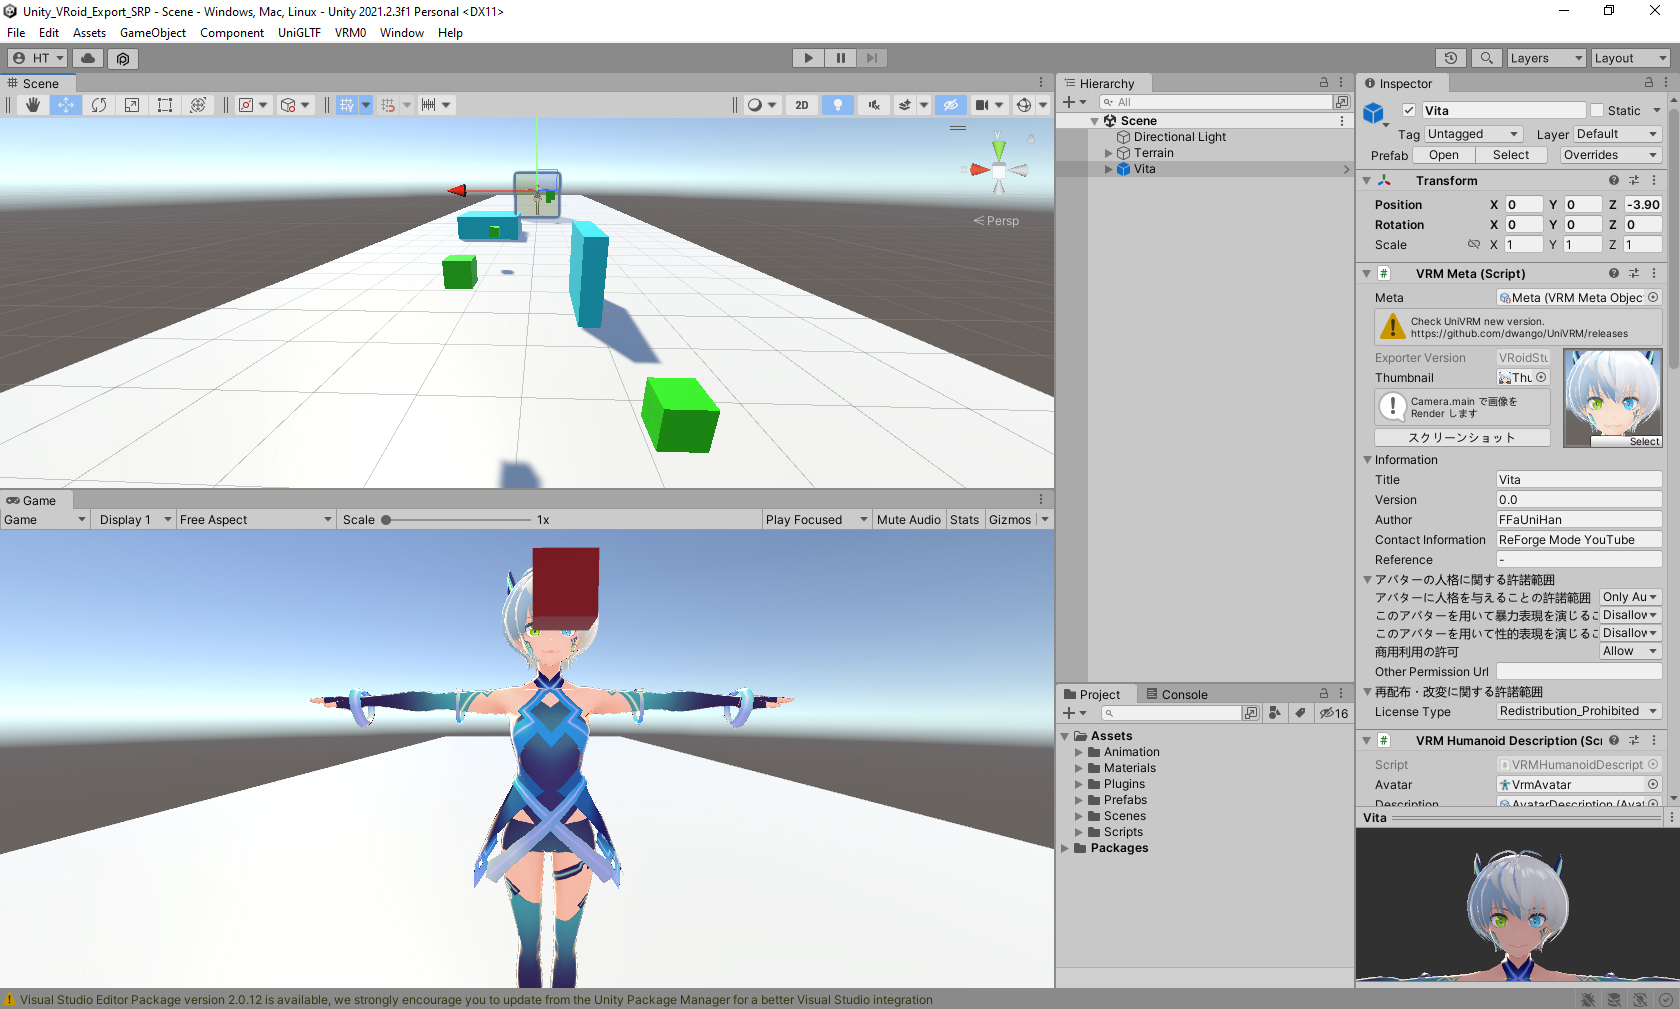
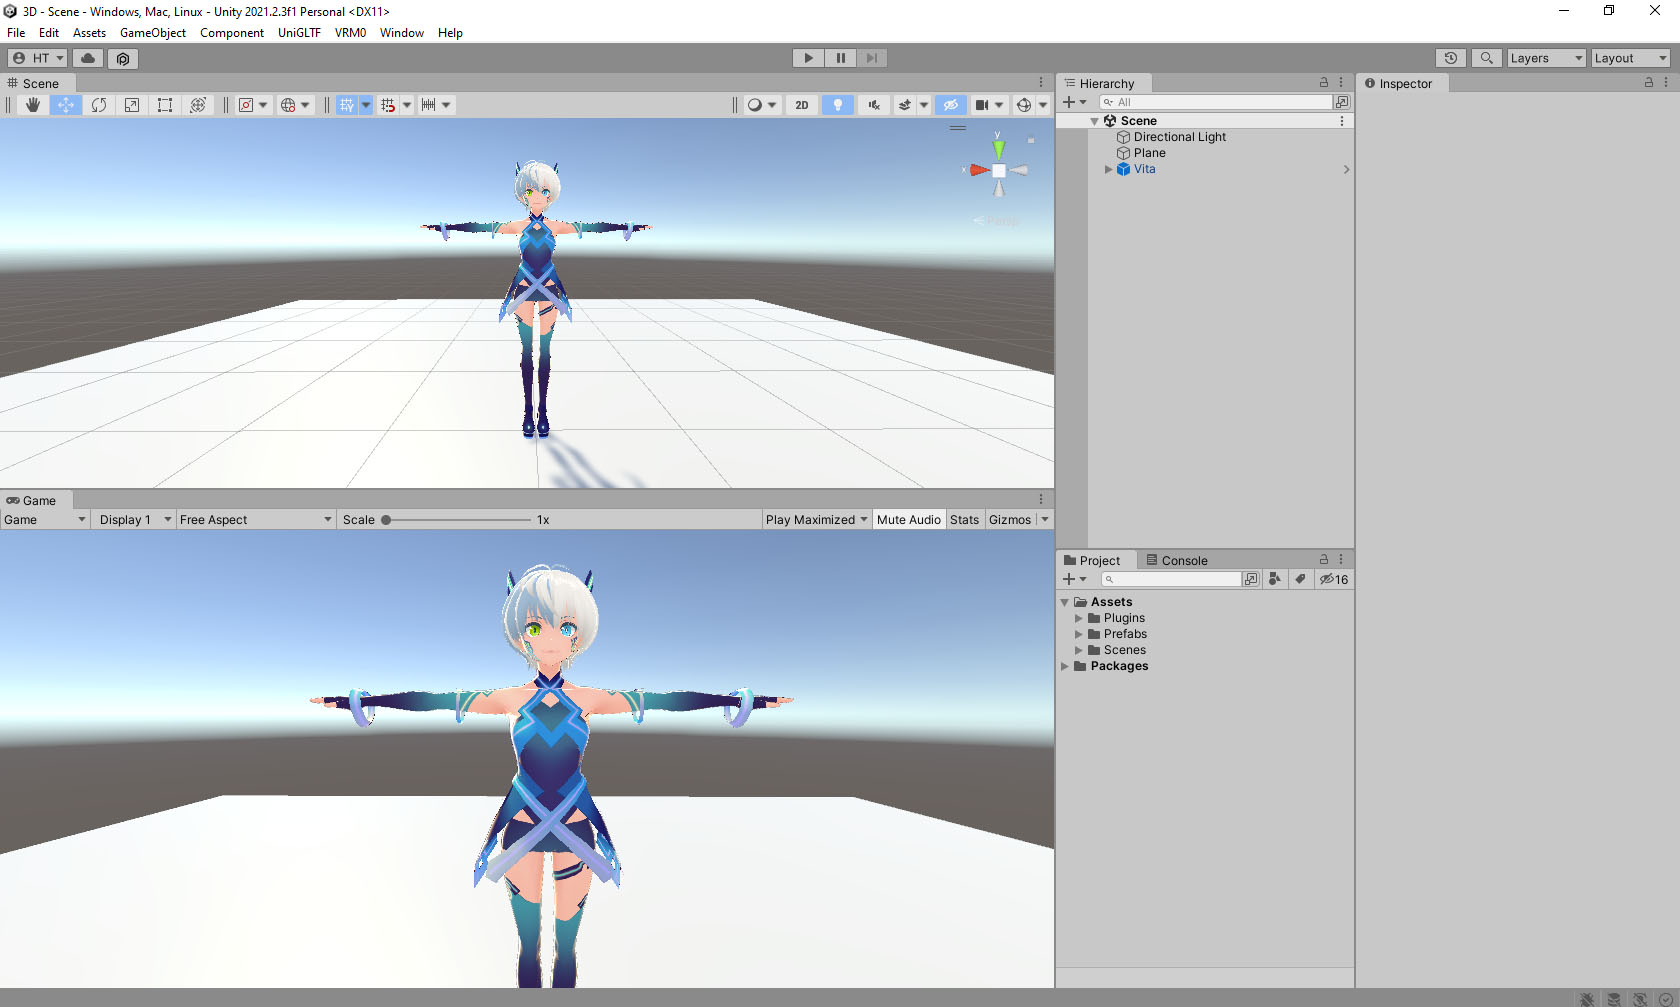
Updating Screenshots

diff --git a/README.md b/README.md
@@ -14,10 +14,7 @@ Alternatively, you could create your own Standard 3D project in Unity Hub and th
 This is how the project should look like:
 <img src="https://github.com/FFaUniHan/Unity_VRoid_Export_3D_Template/blob/main/Screenshot%201.jpg" width=100% height=100%>
 
-I've set up a walking animation and several scripts from my lateet tutorials:
-<img src="https://github.com/FFaUniHan/Unity_VRoid_Export_3D_Template/blob/main/Screenshot%202.jpg" width=100% height=100%>
-
 # Tutorial Video
 If you want to do this manually and know how do we get here, here is my original tutorial video! I make this kind of tutorial every month, so if you like it, be sure to subscribe!
 
-[![How to Export VRoid Studio Models to Unity in 7 Minutes or Less (3D/URP/HDRP)](https://github.com/FFaUniHan/Unity_VRoid_Export_3D_Template/blob/main/Screenshot%203.jpg)](https://www.youtube.com/watch?v=IrIn9wRYqUI "How to Export VRoid Studio Models to Unity in 7 Minutes or Less (3D/URP/HDRP)")
+[![How to Export VRoid Studio Models to Unity in 7 Minutes or Less (3D/URP/HDRP)](https://github.com/FFaUniHan/Unity_VRoid_Export_3D_Template/blob/main/Screenshot%202.jpg)](https://www.youtube.com/watch?v=IrIn9wRYqUI "How to Export VRoid Studio Models to Unity in 7 Minutes or Less (3D/URP/HDRP)")
